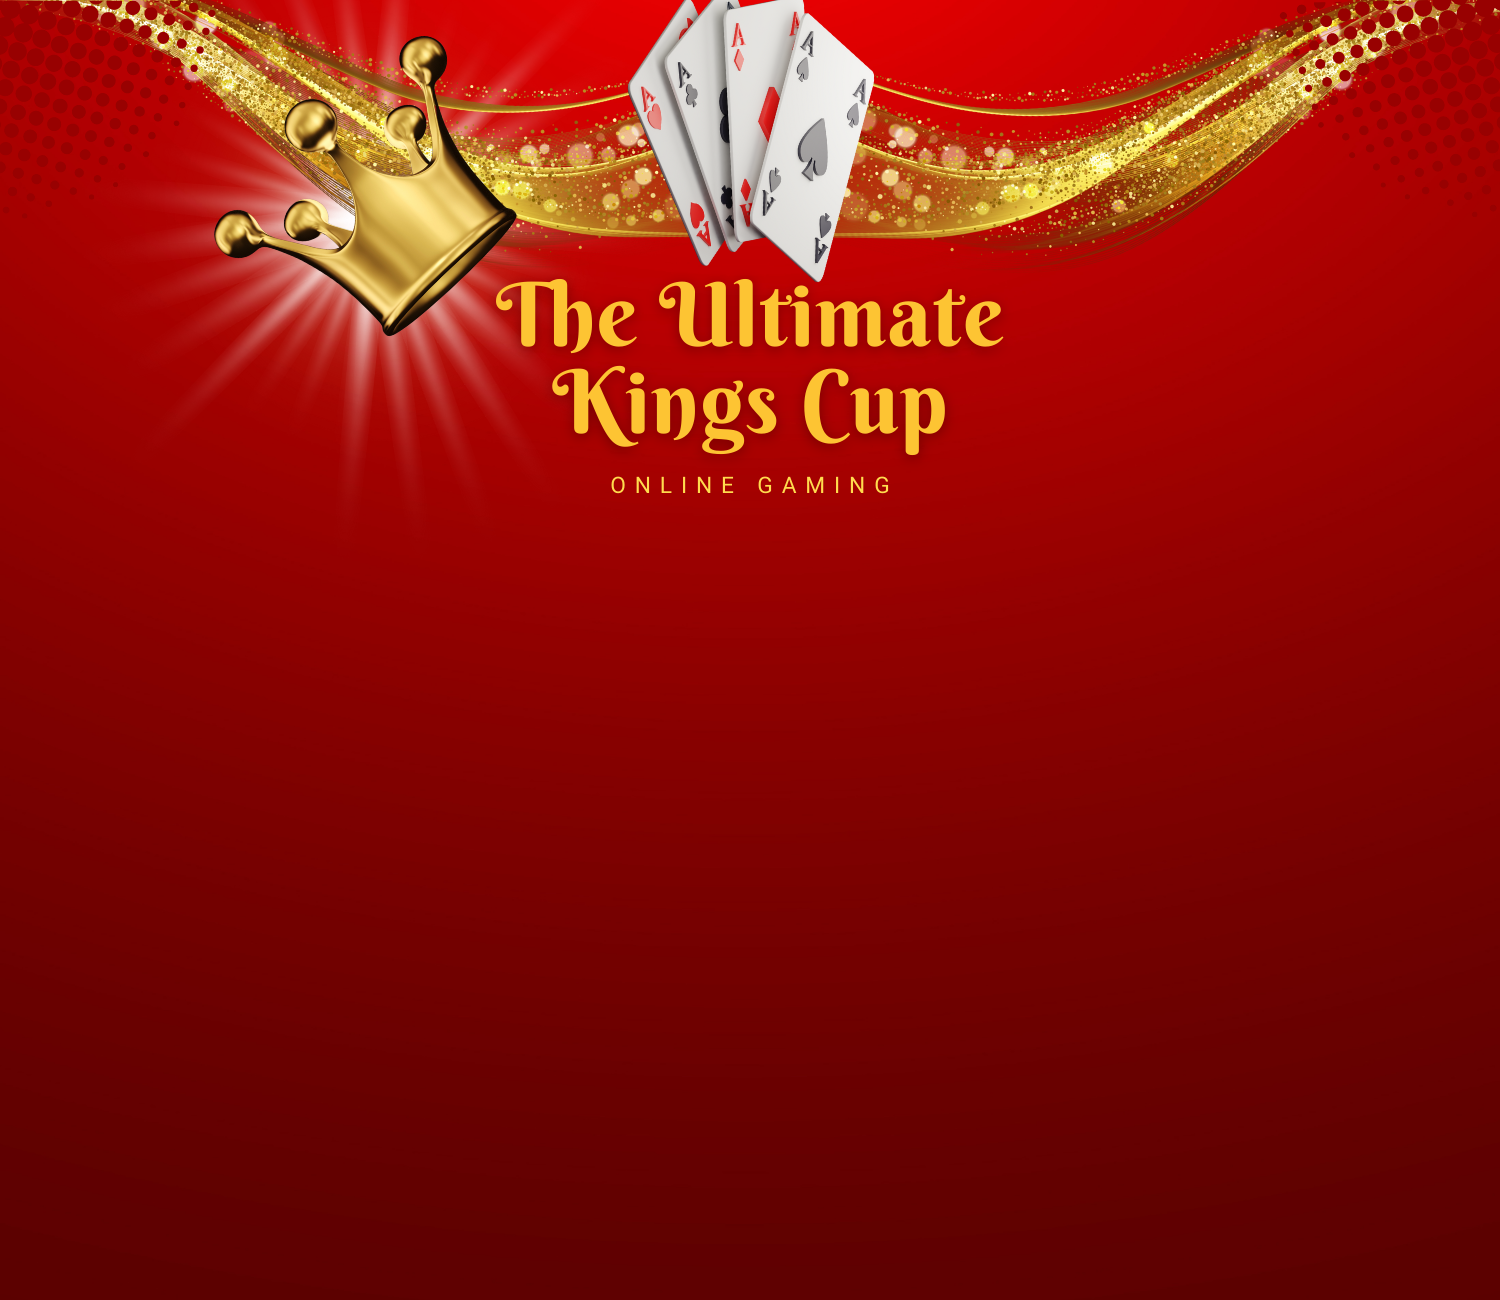
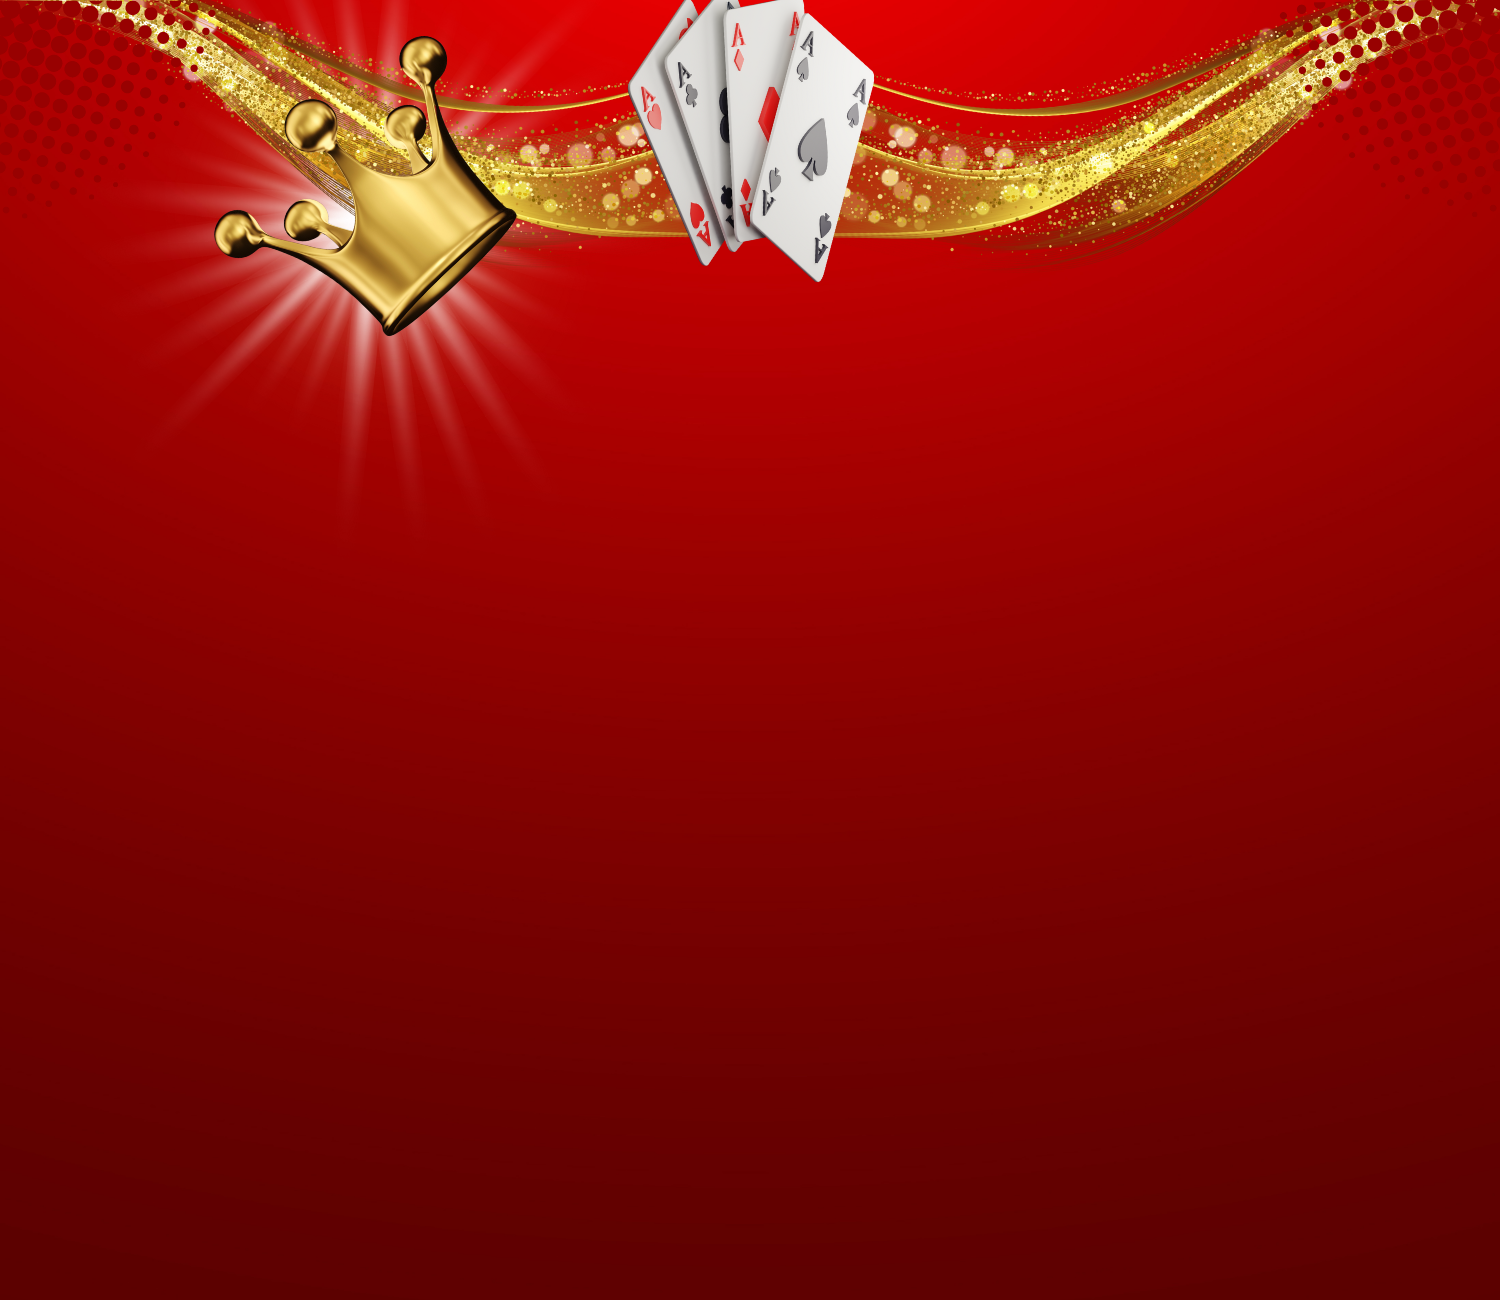
edited css and added gif

Changed region(s): [[0.3373, 0.2154, 0.6747, 0.4], [0.5213, 0.3692, 0.552, 0.4]]

diff --git a/css/style.css b/css/style.css
@@ -16,17 +16,20 @@
 /******************************************
 /* ADDITIONAL STYLES
 /*******************************************/
-header{
+.mainContainer{
   background-image: url('../assets/hero.png');
   background-repeat: no-repeat;
   background-size: cover;
   height: 120vh;
+  padding-top: 50vh;
 }
 
 h1{
   font-family: 'Pacifico', cursive;
   width: 100%;
   text-align: center;
+  font-size: 5rem;
+  color: #FDC433;
 }
 
 h2{
@@ -53,11 +56,28 @@ div{
   margin-top: 1rem;
 }
 
+.playContainer > a{
+  color: black;
+  background-color: #FDC433;
+  padding: 0.5rem 1rem;
+  font-size: 1.5rem;
+  border-radius: 10px;
+  text-decoration: none;
+  font-family: 'Roboto', sans-serif;
+
+}
+
+.playContainer > a:hover{
+  background-color: black;
+  color: #FDC433;
+}
+
 #drawCard{
-  background-color: lightgrey;
-  border: 2px solid lightgrey;
+  background-color: #FDC433;
+  border: 2px solid #FDC433;
   border-radius: .2em;
   font-family: 'Roboto', sans-serif;
+  padding: 0.5rem 1rem;
 }
 
 #drawCard:hover{
@@ -83,13 +103,18 @@ footer{
   display: flex;
   justify-content: center;
   margin: 2rem 0;
+  padding-top: 150px;
+
 }
 
 footer span{
   font-family: 'Roboto', sans-serif;
   font-size: 11px;
-  text-decoration: lightslategray;
   margin: 0 1rem;
+}
+
+footer span > a{
+  color: #FDC433;
 }
 
 html, body {

diff --git a/index.html b/index.html
@@ -19,17 +19,15 @@
 		<link href="https://fonts.googleapis.com/css2?family=Berkshire+Swash&family=Roboto:wght@300;400&display=swap" rel="stylesheet">
 	</head>
 
-		<header>
+		<div class="mainContainer">
 
+			<h1>The Ultimate King's Cup</h1>
 			<div class="playContainer">
 				<a href="game.html">Play Now</a>
 			</div>
 
 			<h2></h2>
 
-			<div class ="blurb">
-				<a href="assets/Kings-rules.pdf">Download the Rules</a>
-			</div>
 
 			<footer>
 				<span>
@@ -46,7 +44,7 @@
 		
 			</footer>
 
-		</header>
+		</div>
 
 
 
